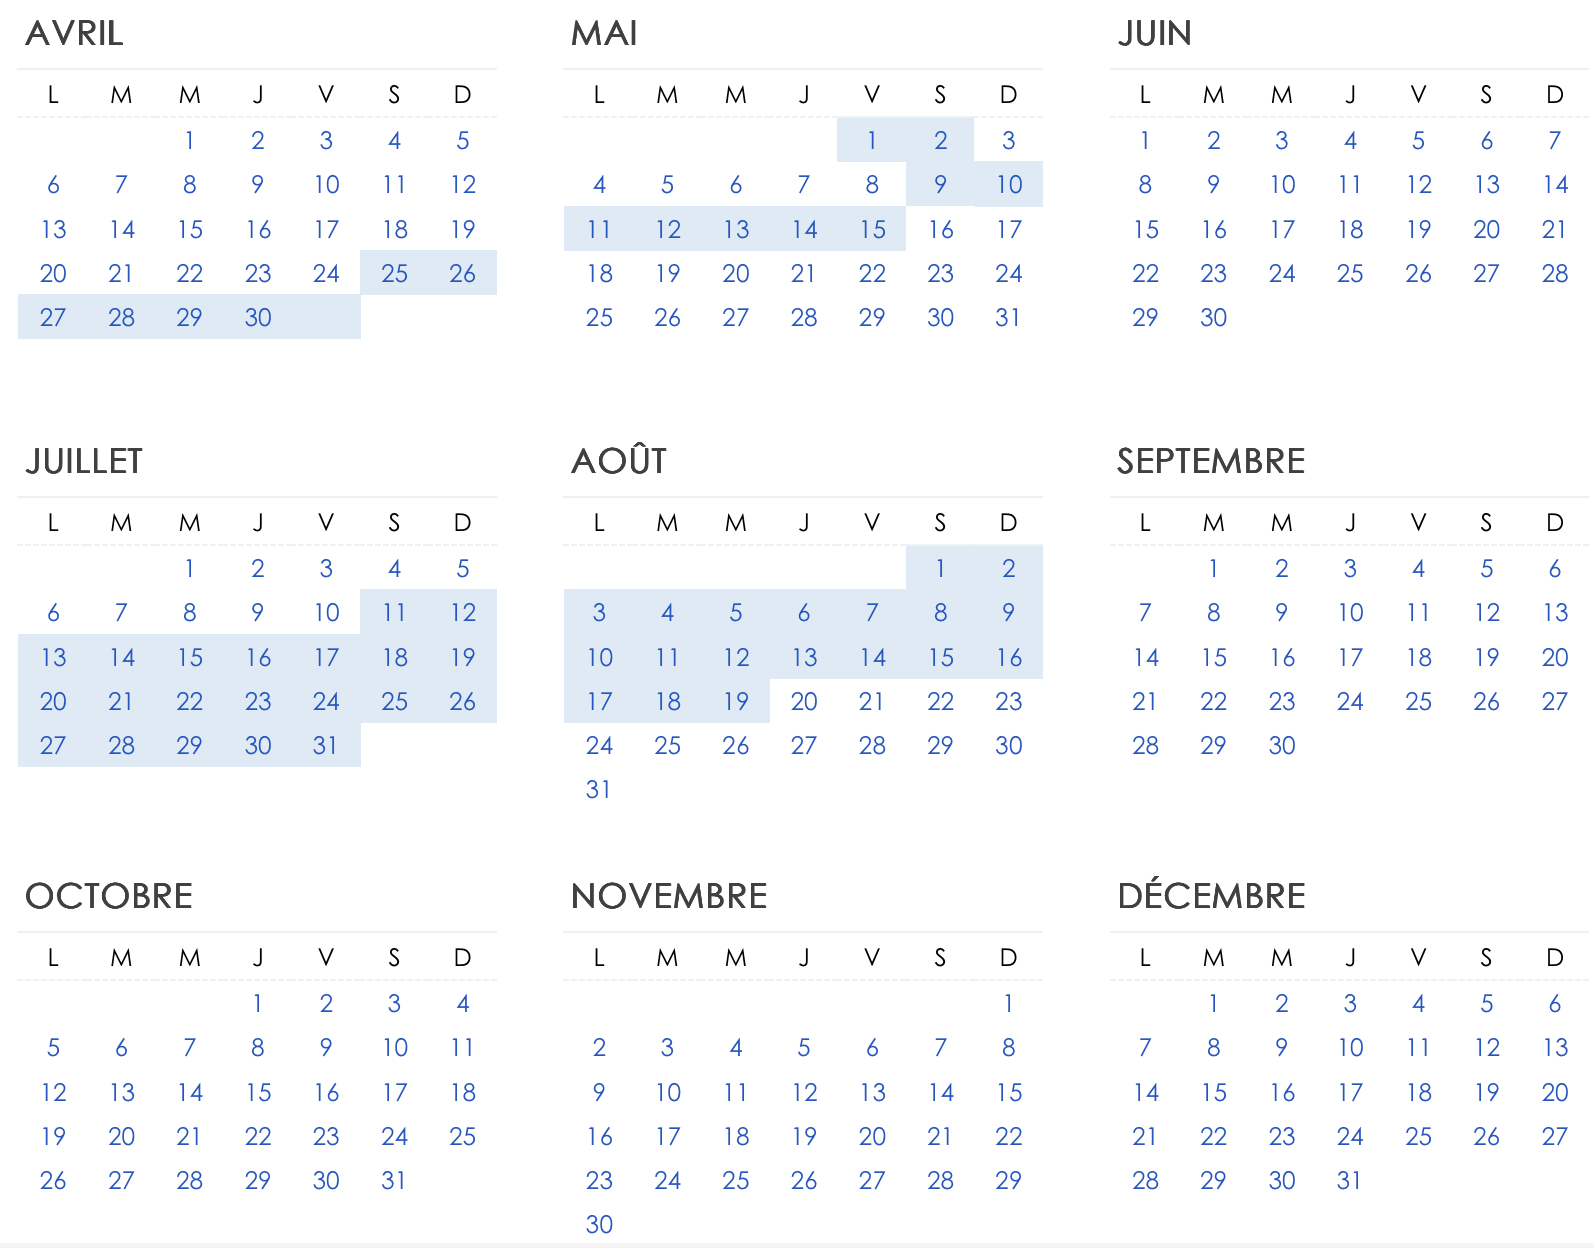
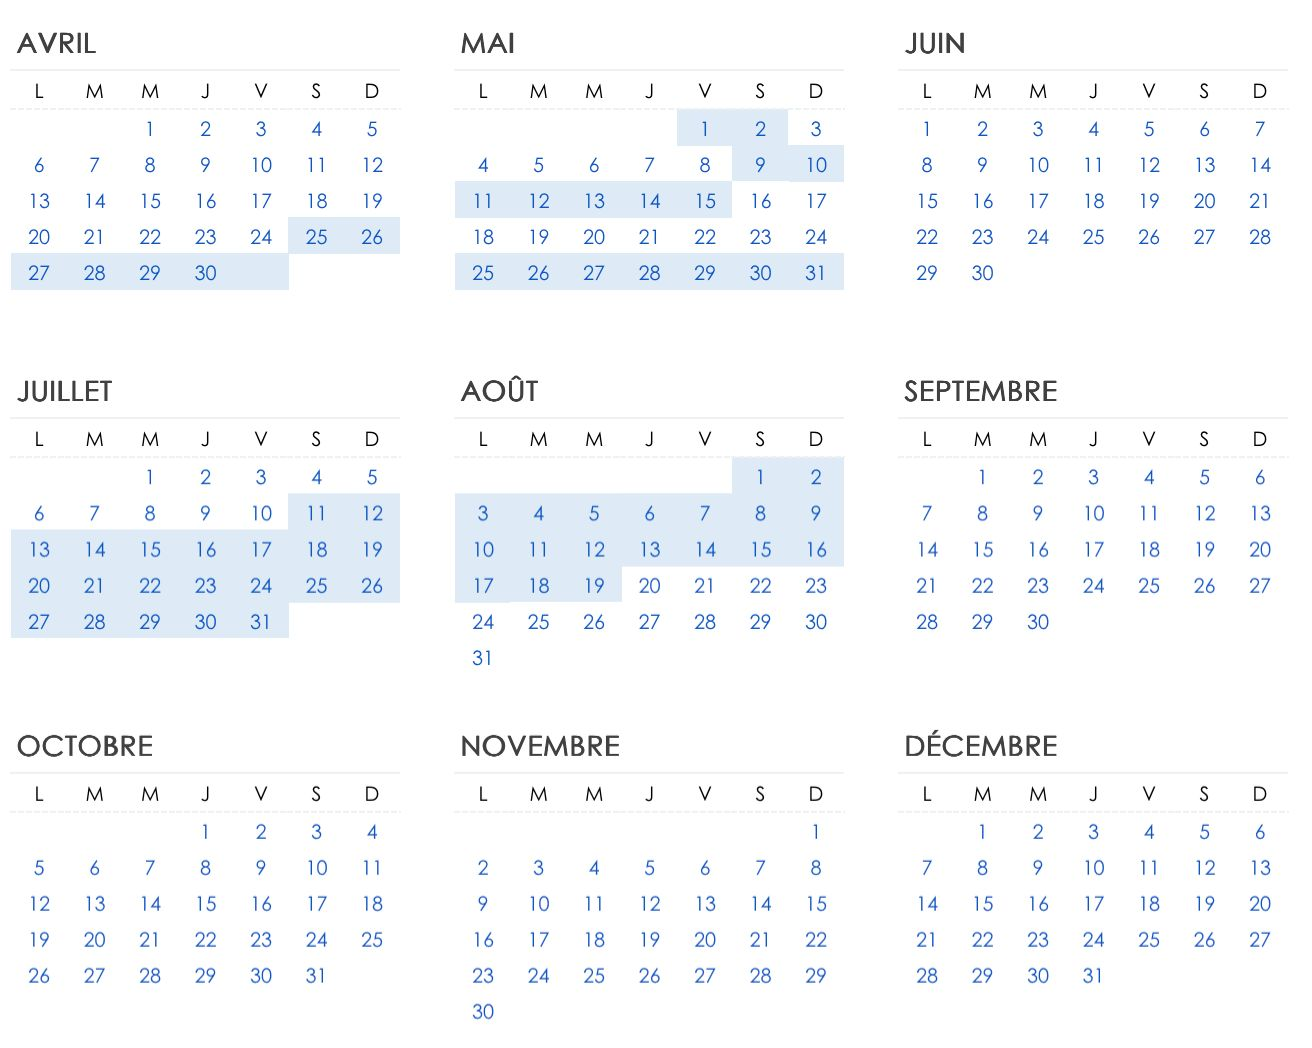
Update 2026 calendar image and restore dropdown-only nav button styling
- Replace New_Calendrier.png with the new 2026 booking calendar
- Mirror builder <a> nav styles onto <button>.dropdown-only (padding, bg, color, font-weight 700, dropdown caret) so dropdown headers visually match the clickable nav links

diff --git a/src/styles/overrides.css b/src/styles/overrides.css
@@ -198,3 +198,45 @@ ul.menu1 > li > a.dropdown-only:hover > span {
   text-decoration: none !important;
   cursor: default;
 }
+
+/* Reset native <button> styling and mirror the builder's <a> nav rules onto
+   dropdown-only buttons (cc6770b099.css targets <a> only). */
+ul.menu1 > li > button.dropdown-only {
+  appearance: none;
+  margin: 0;
+  text-align: inherit;
+  cursor: default;
+  /* Mirror ul.menu1 > li > a */
+  padding: 16px 20px;
+  background-color: #dfdfdf;
+  background-image: none;
+  text-decoration: none;
+  border: 0 solid #000;
+  color: #000;
+  font-size: 16px;
+  font-weight: 700;
+  font-style: normal;
+  font-family: Roboto, "Open Sans", "Helvetica Neue", Helvetica, sans-serif;
+  /* Mirror ul.menu1 li a */
+  line-height: 19px;
+}
+ul.menu1 > li > button.dropdown-only > span {
+  /* Mirror ul.menu1 li a.level-0 span */
+  display: inline-block;
+}
+/* Mirror the dropdown caret from ul.menu1 > li > a.expandable:after */
+ul.menu1 > li > button.dropdown-only.expandable:after {
+  font-family: dropDownMenu !important;
+  margin-left: 0.3em;
+  line-height: 1px;
+  font-size: 1.2em;
+  text-shadow: none;
+  content: "\e900";
+}
+ul.menu1 > li > button.dropdown-only:focus {
+  outline: none;
+}
+ul.menu1 > li > button.dropdown-only::-moz-focus-inner {
+  border: 0;
+  padding: 0;
+}